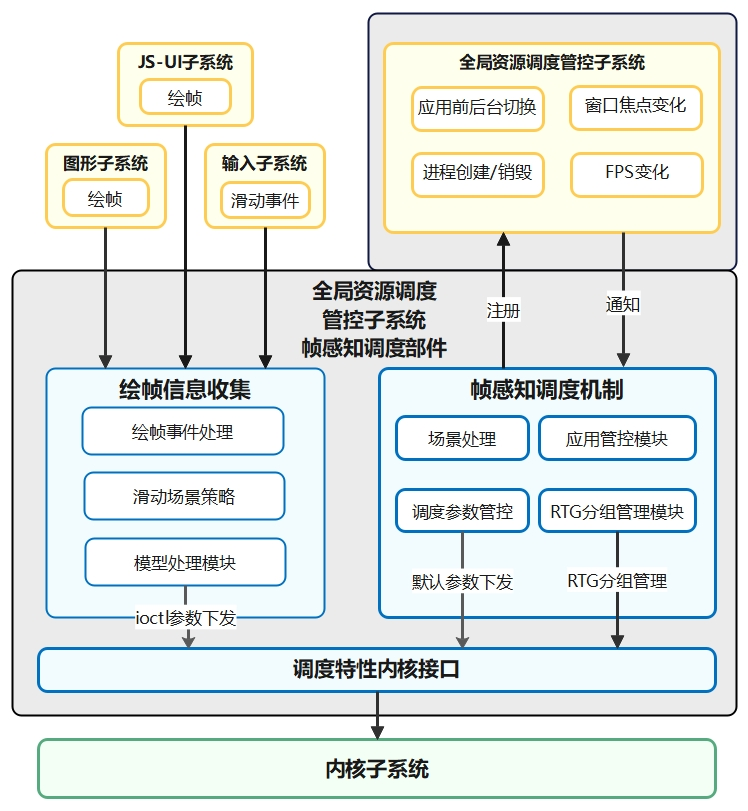
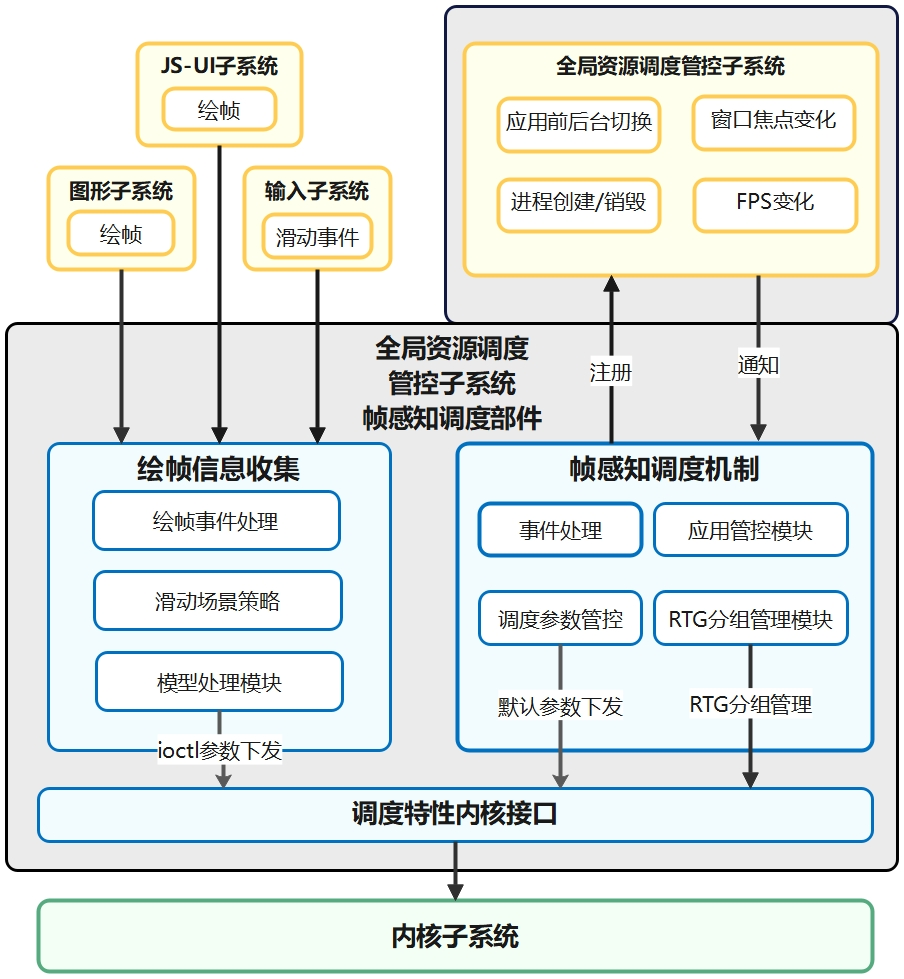
modify reademe 3.0

Changed region(s): [[0.0, 0.0, 1.0, 1.0], [0.369, 0.4932, 0.3997, 0.5549]]

diff --git a/README_ZH.md b/README_ZH.md
@@ -4,7 +4,7 @@
 
 ## 简介<a name="section_introduction"></a>
 
-智能感知调度部件位于全局资源调度管控子系统中，基于应用的生命周期状态、绘帧信息等，更新进程调度分组，通过设置进程组、线程优先级及其他内核调度参数等手段管理系统调度，保障系统进程调度供给。
+智能感知调度部件位于全局资源调度管控子系统中，通过帧感知调度机制，更新进程调度分组。通过获取应用的生命周期状态、应用绘帧等信息，调节内核调度参数，从而控制内核调度行为，保障系统进程调度供给。
 
 
 
@@ -14,14 +14,13 @@
 //foundation/resourceschedule/plugins/frame_aware_sched
 ├── common           						# 部件通用工具类
 │   └── include
-│       ├── frame_info_const.h				# UI及render绘帧过程信息
+│       ├── frame_info_const.h				# 绘帧过程信息
 │       ├── frame_aware_constants.h	        # 通用参数配置
 │       ├── frame_aware_log_domain.h	    # 封装hilog，用于日志打印
-│       └── single_instance.h				# 封装单例类，方便实现单例
+│       └── single_instance.h				# 封装了单例模式的类模板
 │
 ├── interfaces
 │   └── innerkits    						# 对内接口目录
-│       └── frameintf    					# 感知调度专用接口
 │
 ├── frameworks                              
 │   └── core
@@ -35,25 +34,25 @@
 
 ## 说明<a name="section_illustration"></a>
 
-智能感知调度部件根据执行时所属线程进行划分，可包含两大组件，即运行在App进程的绘帧信息收集器组件和运行在系统服务进程的帧感知调度机制组件，每个组件分为若干模块。
+智能感知调度部件根据执行时所属线程进行划分，可包含两大组件，即运行在App进程的绘帧信息收集组件和运行在系统服务进程的帧感知调度机制组件，每个组件分为若干模块。
 
-- **绘帧信息收集组件**：主要分为绘帧事件处理模块、滑动场景策略模块以及模型处理模块，三者构成绘帧核心策略。其中：
+- **绘帧信息收集组件**：主要分为帧事件处理模块、滑动场景策略模块以及模型处理模块，三者构成绘帧核心策略。其中：
 
-  消息处理模块负责统筹JS-UI子系统及Graphic子系统的绘帧子过程的消息信息并分发；
+  绘帧事件处理模块，主要负责统筹JS-UI子系统及Graphic子系统的绘帧子过程的消息信息并分发。
 
-  帧事件处理模块主要负责提供各个子过程的调节调度算法；
+  模型处理模块，主要负责提供各个子过程的调节调度算法。
 
-  滑动场景策略模块主要负责针对滑动场景，使用帧事件处理模块的算法接口提供应用主线程绘帧策略，进行场景化精细调度。
+  滑动场景策略模块，主要负责针对滑动场景，使用模型处理处理模块的算法接口提供应用主线程绘帧策略，进行场景化精细调度。
 
-- **帧感知调度机制组件**：主要分为场景处理模块、应用管控模块、调度参数管控模块和RTG（Related-Thread-Group）分组管理模块，四者构成应用线程调度机制。其中：
-
-  场景处理模块主要负责注册接收来自全局资源管控子系统的消息，诸如应用前后台切换、窗口焦点变化等，并分发消息给应用管控模块和RTG分组模块；
-
-  应用管控模块，主要负责把维护接收到的消息，形成应用消息管理；
-
-  RTG分组管理模块即调用内核接口设置，根据应用状态设置RTG分组实现线程调度管理；
-
-  调度参数管控模块主要负责读取默认调度参数配置。
+- **帧感知调度机制组件**：主要分为事件处理模块、应用管控模块、调度参数管控模块和RTG（Related-Thread-Group）分组管理模块，四者构成应用线程调度机制。其中：
+  
+  事件处理模块，主要负责注册接收来自全局资源管控子系统的消息，诸如应用前后台切换、窗口焦点变化等，并分发消息给应用管控模块和RTG分组模块。
+  
+  应用管控模块，主要负责统一管理事件处理模块的应用消息。
+  
+  RTG分组管理模块，即调用内核接口设置，根据应用状态设置RTG分组实现线程调度管理。
+  
+  调度参数管控模块，主要负责读取默认调度参数配置。
 
 两个组件中的事件处理模块，均统筹了智能感知调度部件所要对外相应的事件，而调度特性内核接口模块则负责将管控调度命令以帧的频率下发，两个组件相互合作，共同保障系统线程的性能供给。
 
@@ -65,10 +64,10 @@
 
 应用绘帧感知主要负责调节内核调度的参数，进行线程负载的缩放。当用户在APP界面滑动时，识别出应用的关键线程（诸如绘帧主线程、渲染线程），感知应用绘帧子过程的执行情况，根据是否超时来判断是否调整内核调度参数，进行实时的资源供给，进行优先调度。
 
-- 根据屏幕刷新率，判断当前帧率信息，根据越接近绘帧结束时刻，越加大关键线程的资源供给；
+- 根据屏幕刷新率，判断当前帧率信息，根据越接近绘帧结束时刻，越加大关键线程的资源供给。
 
 
-- 根据界面绘帧图形渲染过程中的各个子阶段的时长，调节资源供给；
+- 根据界面绘帧图形渲染过程中的各个子阶段的时长，调节资源供给。
 
 
 - 对可能发生丢帧卡顿的高概率事件，增加资源供给。
